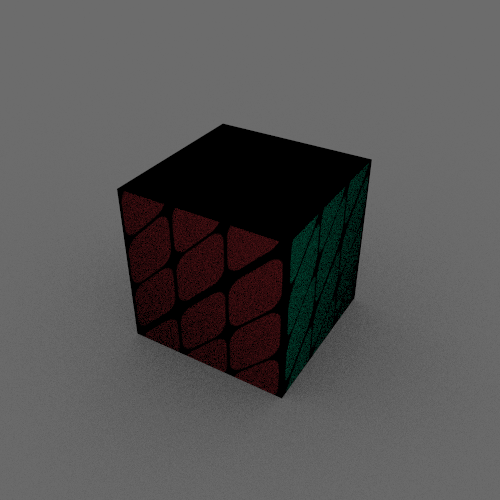
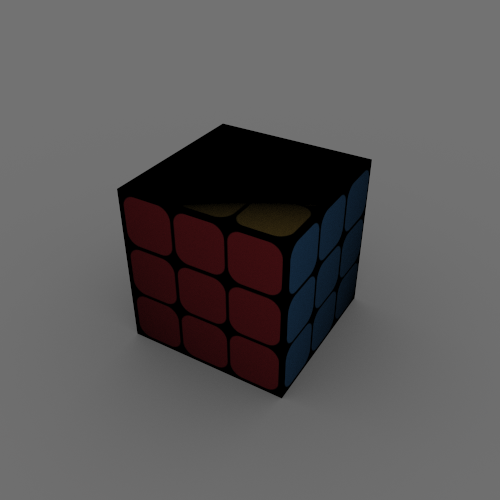
fix uv interpolation

Changed region(s): [[0.24, 0.33, 0.75, 0.78]]

diff --git a/src/raytracer/scene/materials.rs b/src/raytracer/scene/materials.rs
@@ -196,7 +196,7 @@ pub struct TextureMaterial {
 impl TextureMaterial {
     fn get_albedo(&self, u: f64, v: f64) -> Color {
         let x = self.width * u;
-        let y = self.height * v;
+        let y = self.height - (self.height * v);
         if x % 1.0 != 0.0 || y % 1.0 != 0.0 {
             let x_top = x.ceil() as usize;
             let y_top = y.ceil() as usize;
@@ -234,7 +234,7 @@ impl Scatter for TextureMaterial {
     fn scatter(&self, _ray: &Ray, intersection: &IntersectionInfo) -> Option<(Option<Ray>, Color)> {
         let mut scatter_direction = intersection.normal + Vector3::random_unit_vector();
 
-        if scatter_direction.near_zero() {
+        if scatter_direction.near_zero() || intersection.normal.dot(&scatter_direction) <= 0.0 {
             scatter_direction = intersection.normal;
         }
 

diff --git a/src/raytracer/scene/intersections.rs b/src/raytracer/scene/intersections.rs
@@ -175,9 +175,9 @@ impl Intersectable for Mesh {
                     t,
                 );
                 if let Some(tuv_idx) = triangle.uv_idx {
-                    let (u1, v1) = self.uvs[tuv_idx[0]];
-                    let (u2, v2) = self.uvs[tuv_idx[1]];
-                    let (u3, v3) = self.uvs[tuv_idx[2]];
+                    let (u1, v1) = self.uvs[tuv_idx[1]];
+                    let (u2, v2) = self.uvs[tuv_idx[2]];
+                    let (u3, v3) = self.uvs[tuv_idx[0]];
                     info.u = Some(a * u1 + b * u2 + (1.0 - a - b) * u3);
                     info.v = Some(a * v1 + b * v2 + (1.0 - a - b) * v3);
                 }
